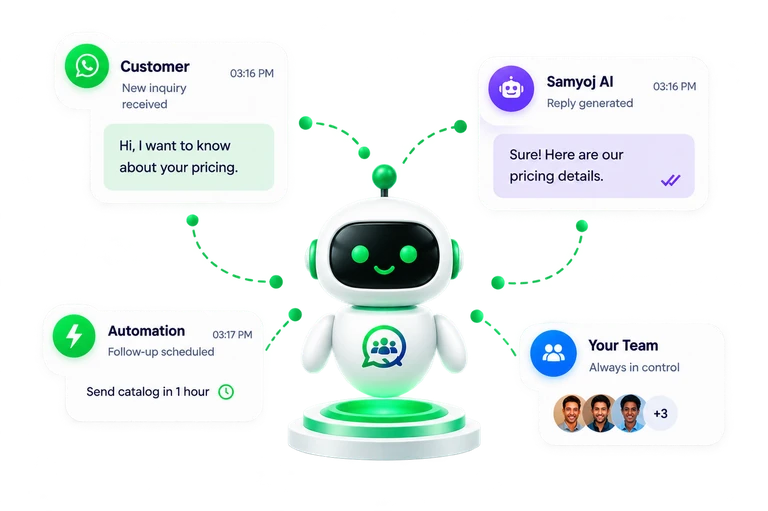
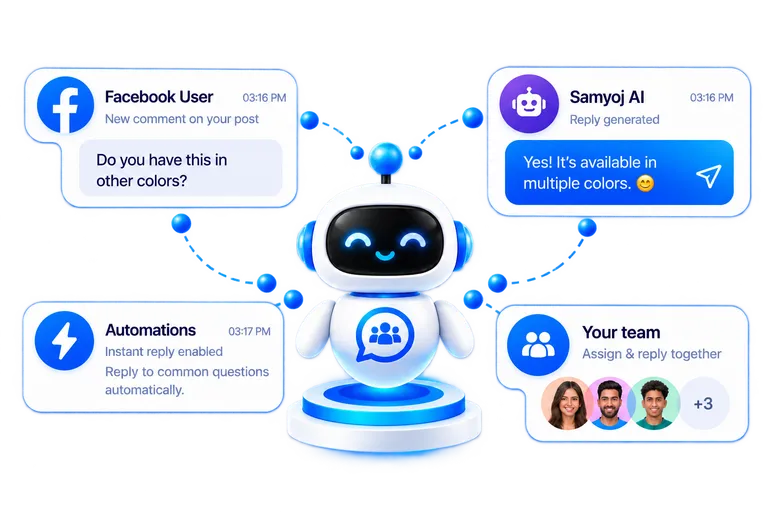
feat: update messenger inbox empty hero image
- Replaced the existing messenger inbox empty hero image with a new version, enhancing visual appeal and user engagement.

This commit focuses on improving the visual elements of the messenger inbox interface.

diff --git a/client/src/components/inbox/ChatPlaceholder.tsx b/client/src/components/inbox/ChatPlaceholder.tsx
@@ -29,11 +29,9 @@ export default function ChatPlaceholder({ onNewChat, platform = 'whatsapp' }: Ch
         ? 'messenger-inbox-empty-hero'
         : 'inbox-empty-hero';
   const heroSize =
-    platform === 'instagram'
+    platform === 'instagram' || platform === 'facebook'
       ? { width: 1536, height: 1024 }
-      : platform === 'facebook'
-        ? { width: 1280, height: 853 }
-        : { width: 1280, height: 853 };
+      : { width: 1280, height: 853 };
   const copy = {
     whatsapp: {
       title: 'Your inbox is ready!',
